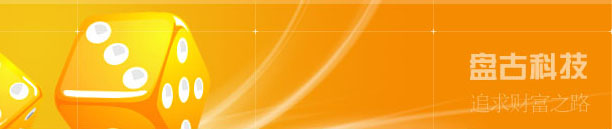
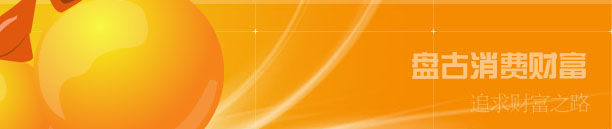
网站图片调整

diff --git a/pangu518/app/webroot/header.php b/pangu518/app/webroot/header.php
@@ -5,12 +5,12 @@
       <param name="quality" value="High">
       <embed src="img_www/logo.swf" pluginspage="http://www.macromedia.com/go/getflashplayer" type="application/x-shockwave-flash" name="obj1" width="60" height="60" quality="High">    
     </object></td>
-    <td width="215" valign="top"><img border="0" src="img_www/logo3.jpg" width="215" height="62"></td>
-    <td align="right" valign="top">
+    <td align=""left><img border="0" src="img_www/logo3.jpg" height="62"></td>
 	<!--
+	<td align="right" valign="top">
 	<img border="0" src="img_www/shouyeguanggao.JPG" width="424" height="62">
-	-->
 	</td>
+	-->
     <td width="2" align="right" valign="top">&nbsp;</td>
   </tr>
 </table>
